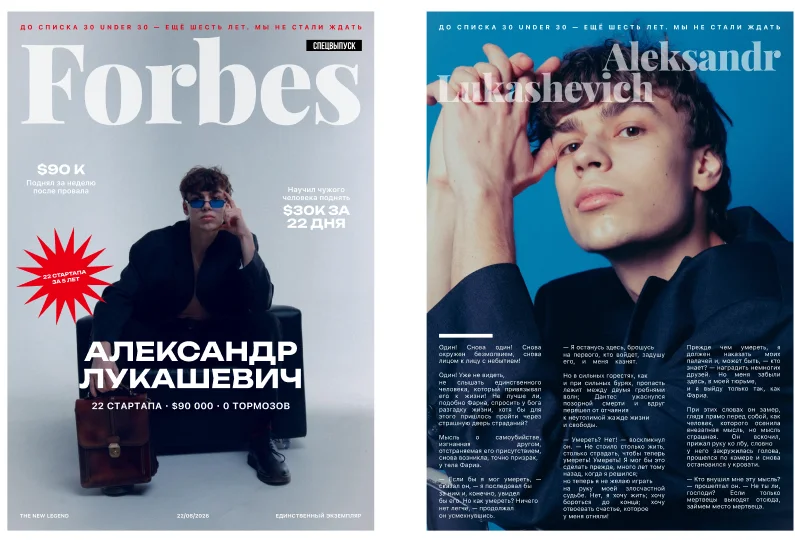
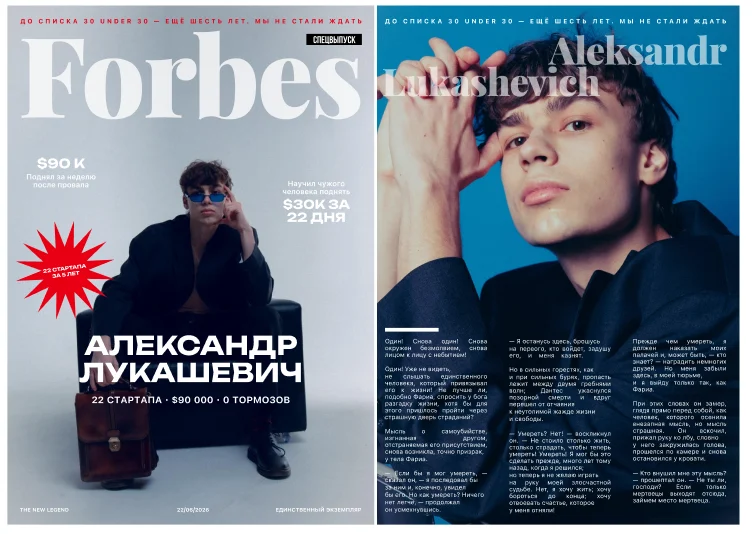
КП Grin: разворот Александра ровно

diff --git a/kp/grin/index.html b/kp/grin/index.html
@@ -261,7 +261,7 @@ p{font-size:20px;line-height:1.5;color:#c9ccd0;font-weight:300}
       <p style="margin-top:24px;font-size:18px">Специализируюсь на журналах и альбомах: сюжет, отбор кадров, вёрстка как в глянце и подготовка к печати. Так же соберу журнал услуг Grin.</p>
       <a href="https://albumchik.by" style="margin-top:auto;align-self:flex-start;display:inline-flex;align-items:center;height:56px;padding:0 28px;border-radius:999px;background:#e8e9ea;color:#111;text-decoration:none;font-size:18px;font-weight:500">Перейти на albumchik.by ↗</a>
     </div>
-    <div style="display:grid;grid-template-columns:repeat(3,1fr);gap:14px;align-content:center;height:740px"><img src="img/mg-polina-02.webp" style="width:100%;aspect-ratio:4/3;object-fit:cover"><img src="img/mg-alex-cover.webp" style="width:100%;aspect-ratio:4/3;object-fit:cover"><img src="img/mg-polina-07.webp" style="width:100%;aspect-ratio:4/3;object-fit:cover"><img src="img/mg-pak-07.webp" style="width:100%;aspect-ratio:4/3;object-fit:cover"><img src="img/mg-polina-14.webp" style="width:100%;aspect-ratio:4/3;object-fit:cover"><img src="img/mg-pak-11.webp" style="width:100%;aspect-ratio:4/3;object-fit:cover"></div>
+    <div style="display:grid;grid-template-columns:repeat(3,1fr);gap:14px;align-content:center;height:740px"><img src="img/mg-polina-02.webp" style="width:100%;aspect-ratio:4/3;object-fit:cover"><img src="img/mg-alex-cover.webp?v=2" style="width:100%;aspect-ratio:4/3;object-fit:cover"><img src="img/mg-polina-07.webp" style="width:100%;aspect-ratio:4/3;object-fit:cover"><img src="img/mg-pak-07.webp" style="width:100%;aspect-ratio:4/3;object-fit:cover"><img src="img/mg-polina-14.webp" style="width:100%;aspect-ratio:4/3;object-fit:cover"><img src="img/mg-pak-11.webp" style="width:100%;aspect-ratio:4/3;object-fit:cover"></div>
   </div>
 </section>
 
